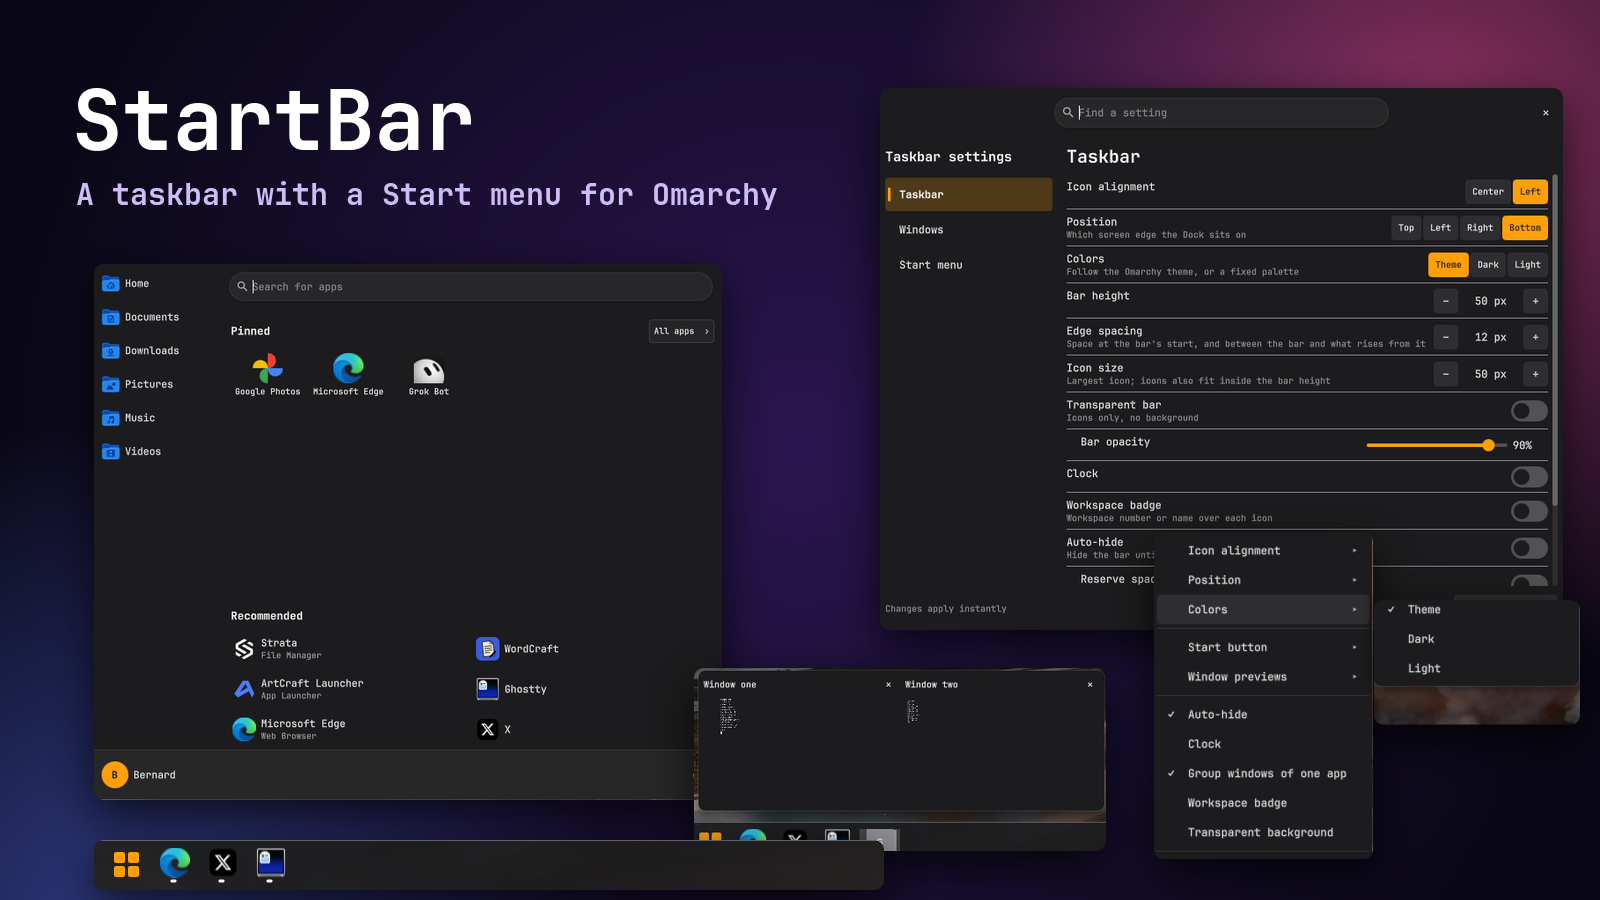
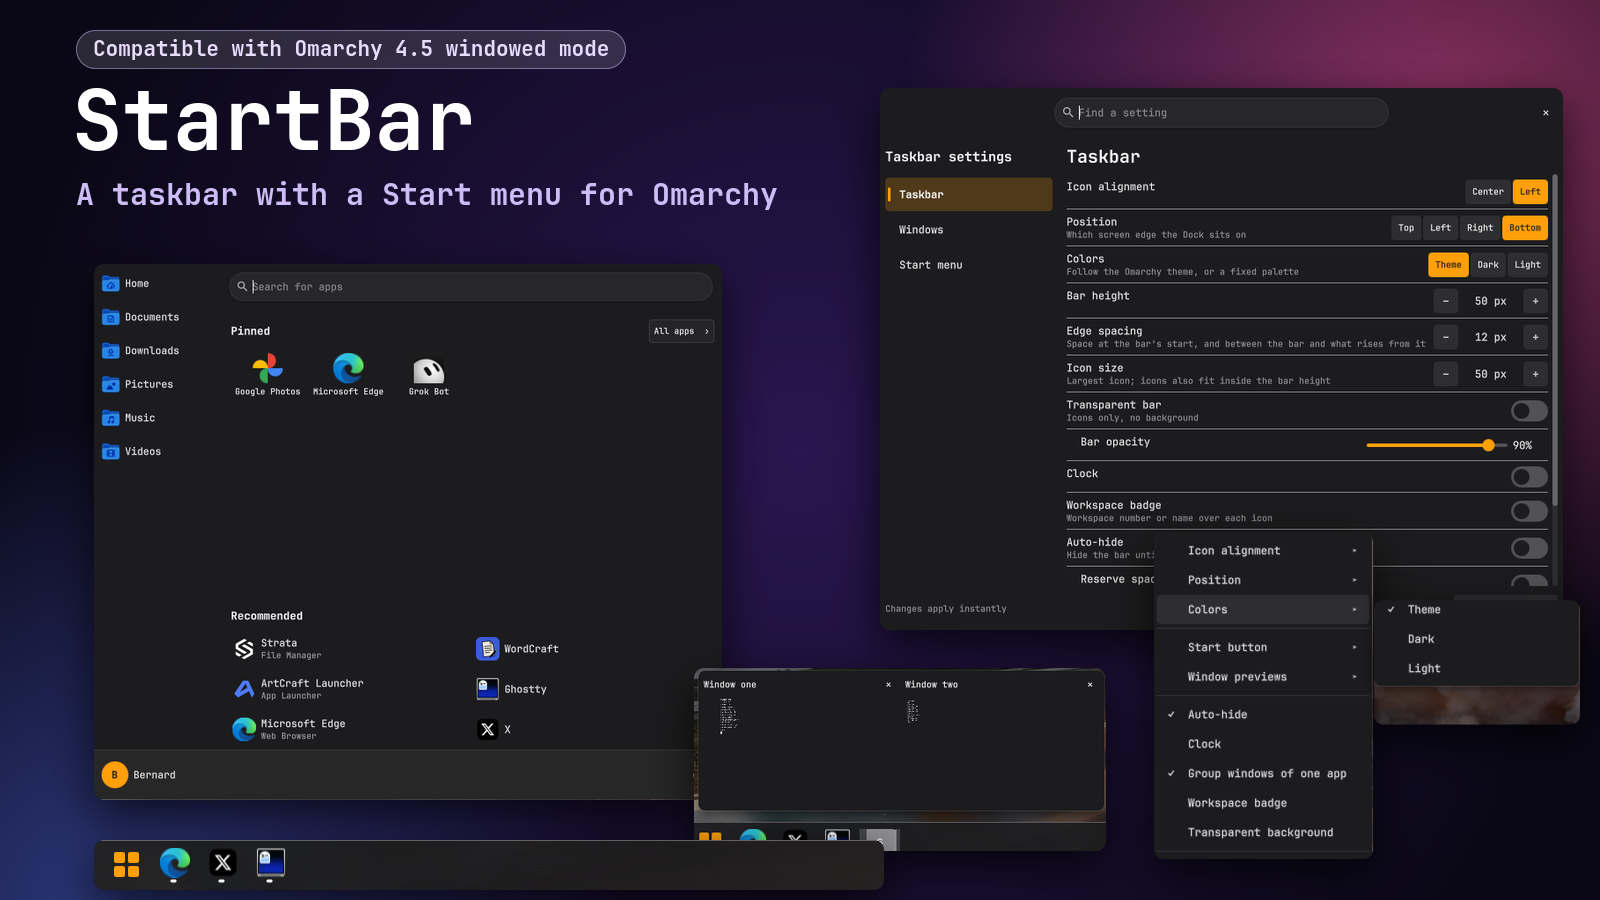
Note Omarchy 4.5 windowed mode compatibility in the README and preview image

Changed region(s): [[0.0312, 0.0311, 0.4062, 0.0933]]

diff --git a/README.md b/README.md
@@ -19,6 +19,8 @@
   <a href="#contributing">Contributing</a>
 </p>
 
+> **Omarchy 4.5:** StartBar is compatible with the windowed mode coming in Omarchy 4.5.
+
 ## Install
 
 ```sh
